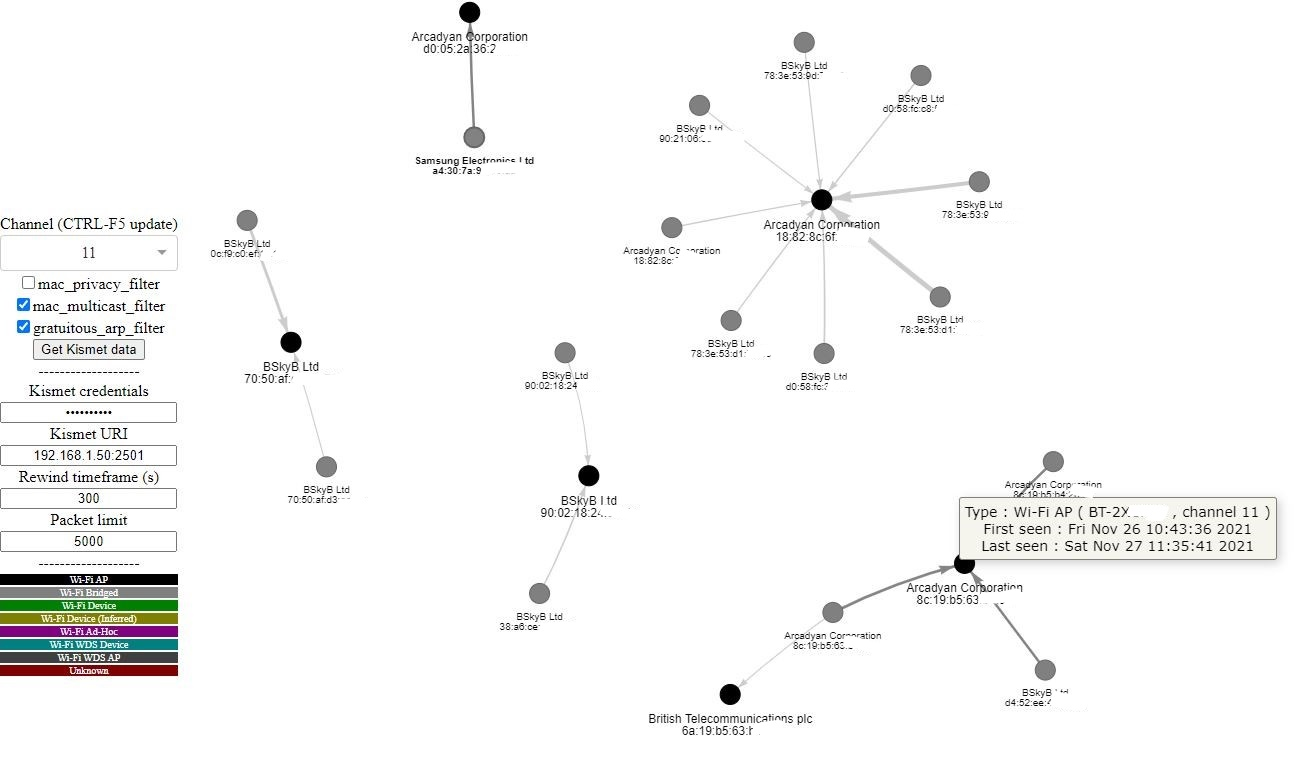
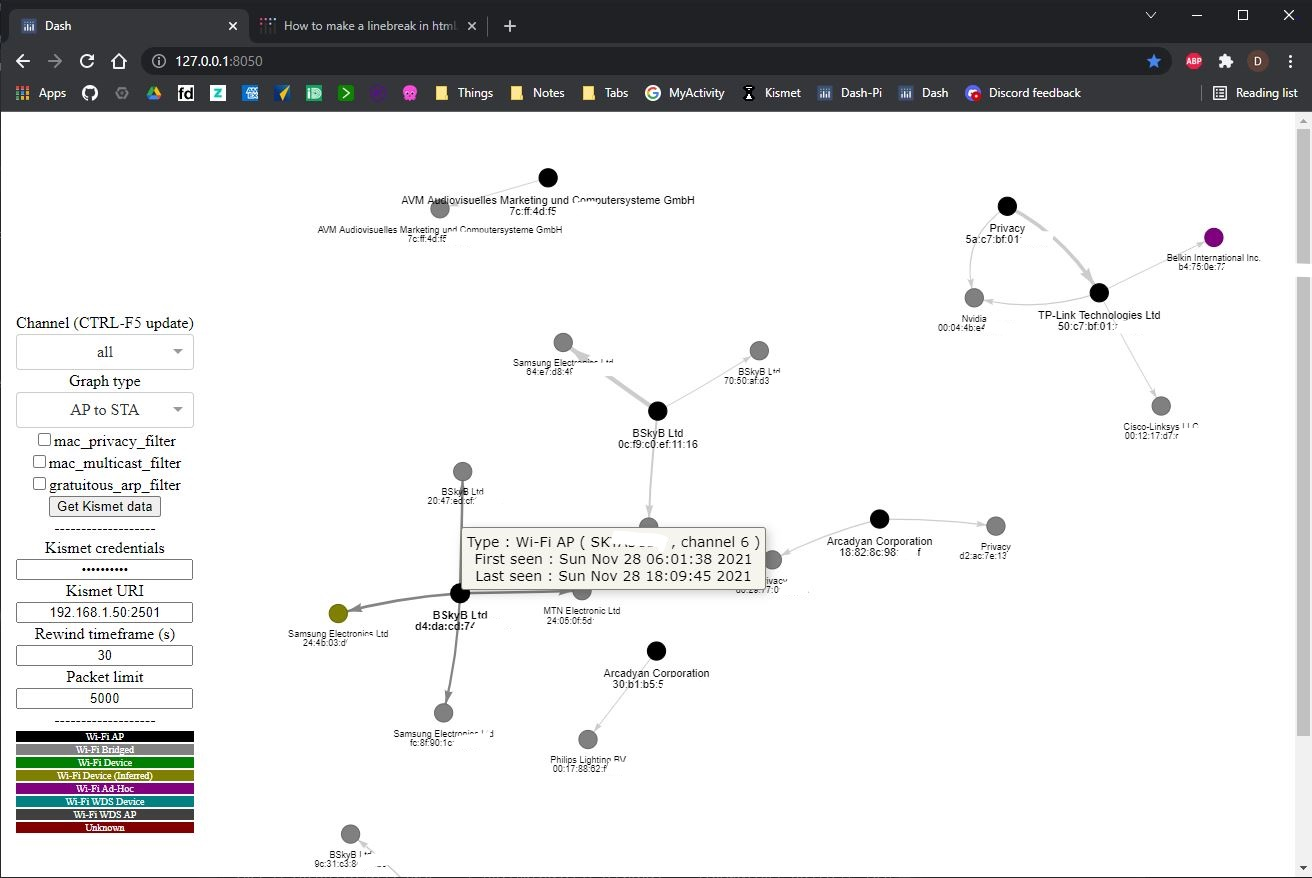
Added Kismet DB as well as packet based graphs

diff --git a/KismetUIPlugin.py b/KismetUIPlugin.py
@@ -42,13 +42,15 @@ channel_list = []
 tmp_csvfile = "edge_df.csv"
 
 ui_variables = {   
-                    'rewind_timeframe' : 300,
+                    'channel' : 'all',
+                    'graph_type' : 'apds',
+                    'rewind_timeframe' : 30,
                     'mac_privacy_filter' : False,
                     'mac_multicast_filter' : False,
                     'gratuitous_arp_filter' : False,
                     'kismet_credentials' : 'user:password',
-                    'kismet_uri' : '127.0.0.1:2501',
-                    'packet_limit' : 10000
+                    'kismet_uri' : '192.168.1.50:2501',
+                    'packet_limit' : 5000,
                }
 
 def test_if_mac_filtered_in_edge(mac_list):
@@ -87,6 +89,8 @@ def ieee80211_frequency_to_channel(freq_mhz):
 
 def get_cached_mac_details(mac):
 
+    global mac_details_cache
+    
     retval_pretty_mac_name = mac
     retval_node_details = "Device type as of yet unknown"
     retval_device_type = "Unknown" 
@@ -103,6 +107,8 @@ def get_cached_mac_details(mac):
         return retval
 
     kismet_api_uri = "http://" + ui_variables['kismet_credentials'] + "@" + ui_variables['kismet_uri'] + "/devices/by-mac/" + mac + "/devices.json"
+
+    logging.info("Sending devices by mac '%s'", kismet_api_uri)
 
     try:
         response = requests.get(kismet_api_uri)
@@ -153,11 +159,98 @@ def get_cached_mac_details(mac):
 def pretty_format_hex(a):
     return ':'.join([a[i:i + 2] for i in range(0, len(a), 2)])
 
+def create_edge_df_from_db():
+
+    global ui_variables, channel_list, channel_options, mac_details_cache
+
+    kismet_api_uri = "http://" + ui_variables['kismet_credentials'] + "@" + ui_variables['kismet_uri'] + "/devices/views/all/devices.json"
+
+    logging.info("Sending request '%s'", kismet_api_uri)
+
+    edge_df_handle = open(tmp_csvfile, 'w', newline='')
+    edge_writer = csv.writer(edge_df_handle)
+    edge_header = ['from_mac', 'to_mac', 'channel', 'total_packets', 'total_bytes', 'average_signal'] 
+    edge_writer.writerow(edge_header)
+
+    try:
+        response = requests.get(kismet_api_uri)
+    except:
+        logging.warn("No API response received")
+        pass
+
+    if response.content:
+        try:
+             devices_dict = json.loads(response.content)
+        except:
+            return
+
+        for device in devices_dict:
+
+            mac = device['kismet.device.base.macaddr']
+            retval_device_type = device['kismet.device.base.type']
+            manuf = device['kismet.device.base.manuf']
+            if not manuf or manuf == 'Unknown':
+                stripped_mac = mac.replace(":","")
+                u_l_bit = (int(stripped_mac[1], 16) & 2) >> 1
+                if u_l_bit:
+                    manuf = "Privacy"
+                else:
+                    manuf = ""
+            retval_pretty_mac_name = manuf + label_for_newline_in_graph + mac
+
+            type_text = "Type : " + retval_device_type
+            ap_name_text = ""
+            if retval_device_type == 'Wi-Fi AP':
+                ap_name_text = "( " + device['kismet.device.base.name'] + " , channel " + device['kismet.device.base.channel'] + " )"
+                first_time_text = "First seen : " + datetime.datetime.fromtimestamp(device['kismet.device.base.first_time']).strftime('%c')
+                last_time_text = "Last seen : " + datetime.datetime.fromtimestamp(device['kismet.device.base.last_time']).strftime('%c')
+                retval_node_details = type_text + " " + ap_name_text + " <br/> " + first_time_text + " <br/> " + last_time_text
+
+            mac_details_cache[mac]['pretty_mac_name'] = retval_pretty_mac_name
+            mac_details_cache[mac]['node_details'] = retval_node_details
+            mac_details_cache[mac]['device_type'] = retval_device_type
+            mac_details_cache[mac]['last_time'] = device['kismet.device.base.last_time']
+        
+        for device in devices_dict:
+            if device['kismet.device.base.type'] == 'Wi-Fi AP':
+                channel = device['kismet.device.base.channel']
+                channel_list.append(int(channel))
+                ap_mac = device['kismet.device.base.macaddr']
+
+                try:
+                    client_map_dict = device['dot11.device']['dot11.device.associated_client_map']
+                    for client_mac in client_map_dict:
+                        if mac_details_cache[client_mac]:
+                            if (int(time.time()) - mac_details_cache[client_mac]['last_time']) < int(ui_variables['rewind_timeframe']):
+                                edge_writer.writerow([ap_mac,client_mac,channel,0,0,0])
+                            else:
+                                pass
+                except:
+                    pass
+           
+    edge_df_handle.flush()
+    edge_df_handle.close()
+
+    channel_list = list(set(channel_list))
+    channel_list.sort()
+    
+    channel_options.clear()
+    channel_options.append({'label': 'all', 'value': 'all'})
+    for channel in channel_list:
+        channel_options.append({'label': channel, 'value': int(channel)})
+
+    logging.info("Kismet DB processed")
+    return
+
 def create_edge_df(time_window_seconds, graph_type):
 
-    global ui_variables, channel_list, channel_options
-
     mac_details_cache.clear()
+
+    if graph_type == 'db':
+        create_edge_df_from_db()
+        return
+
+    global ui_variables, channel_list, channel_options
     
     latest_timestamp =  time.time()
 
@@ -285,6 +378,7 @@ def create_edge_df(time_window_seconds, graph_type):
             edge_writer.writerow([from_mac,to_mac,channel,total_packets,total_bytes,average_signal])
            
     edge_df_handle.flush()
+    edge_df_handle.close()
 
     logging.info("Packets processed")
 
@@ -365,9 +459,10 @@ channel_options=[]
 channel_options.append({'label': 'all', 'value': 'all'})
 
 graph_type_options=[]
-graph_type_options.append({'label': 'AP -> Dest STA', 'value': 'apds'})
-graph_type_options.append({'label': 'Source STA -> Dest STA', 'value': 'ssds'})
-graph_type_options.append({'label': 'Source STA -> AP', 'value': 'ssap'})
+graph_type_options.append({'label': 'AP to STA', 'value': 'apds'})
+graph_type_options.append({'label': 'Kismet DB', 'value': 'db'})
+graph_type_options.append({'label': 'STA to STA', 'value': 'ssds'})
+graph_type_options.append({'label': 'STA to AP', 'value': 'ssap'})
 
 # https://visjs.github.io/vis-network/docs/network/
 network_options = {
@@ -375,18 +470,18 @@ network_options = {
     'width'         : '100%',
     'interaction'   : {'hover' : True},
     'edges'         : {'arrows' : { 'to' : {'enabled': True,  'scaleFactor': 0.5} }, 'scaling' : { 'min': 1, 'max': 5 }},
-    'physics'       : {'stabilization' :{'iterations': 1000}}, 
+    'physics'       : {'stabilization' :{'iterations': 2000}}, 
 }
 
 gui = html.Tr([html.Tr("Channel (CTRL-F5 update)"),
                 html.Tr(dcc.Dropdown(id = 'channel',
                      options=channel_options,
-                     value="all",
+                     value=ui_variables['channel'],
                      clearable=False)),
                 html.Tr("Graph type"),
                 html.Tr(dcc.Dropdown(id = 'graph_type',
                      options=graph_type_options,
-                     value="apds",
+                     value=ui_variables['graph_type'],
                      clearable=False)), 
                html.Tr([dcc.Checklist(id = 'mac_privacy_filter',
                      options=[
@@ -451,8 +546,15 @@ def myfun(graph_type, channel, kismet_credentials,kismet_uri,rewind_timeframe,n_
     
     changed_id = [p['prop_id'] for p in dash.callback_context.triggered][0]
 
+    if graph_type:
+         ui_variables['graph_type'] = graph_type
+
+    if channel:
+         ui_variables['channel'] = channel
+
     if kismet_credentials:
         ui_variables['kismet_credentials'] = kismet_credentials
+    
     if kismet_uri:
         ui_variables['kismet_uri'] = kismet_uri
     
